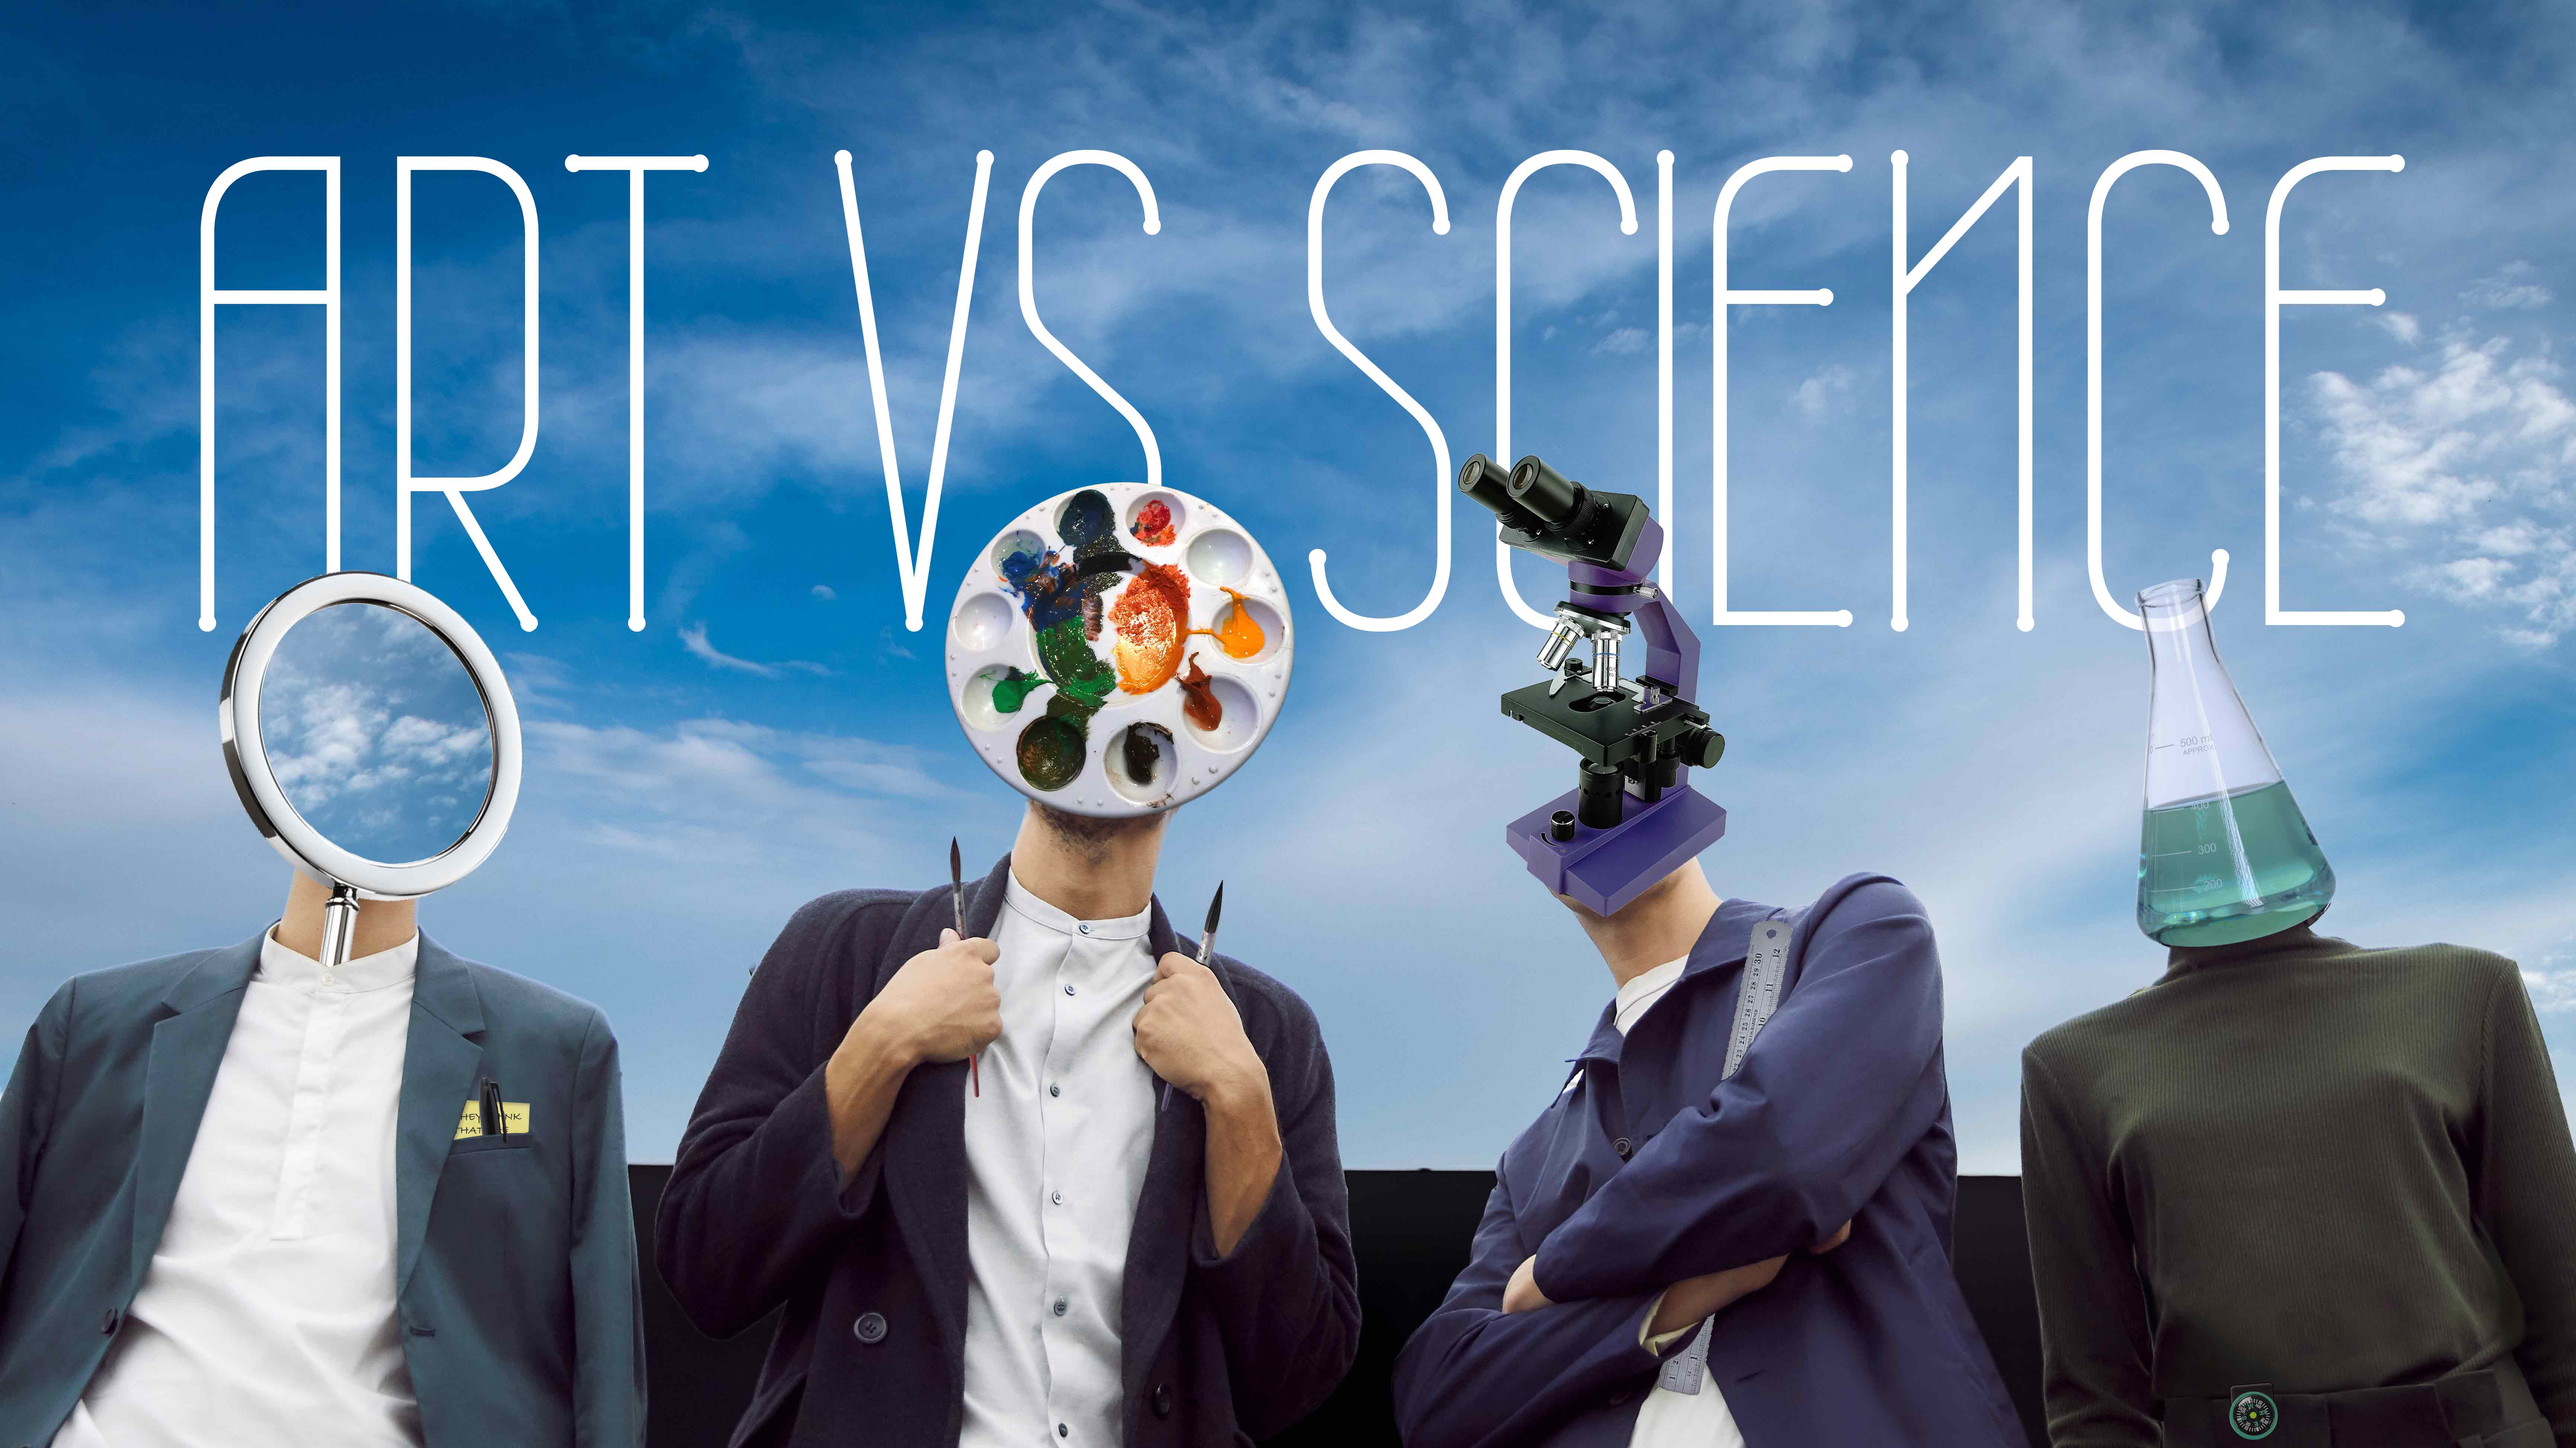
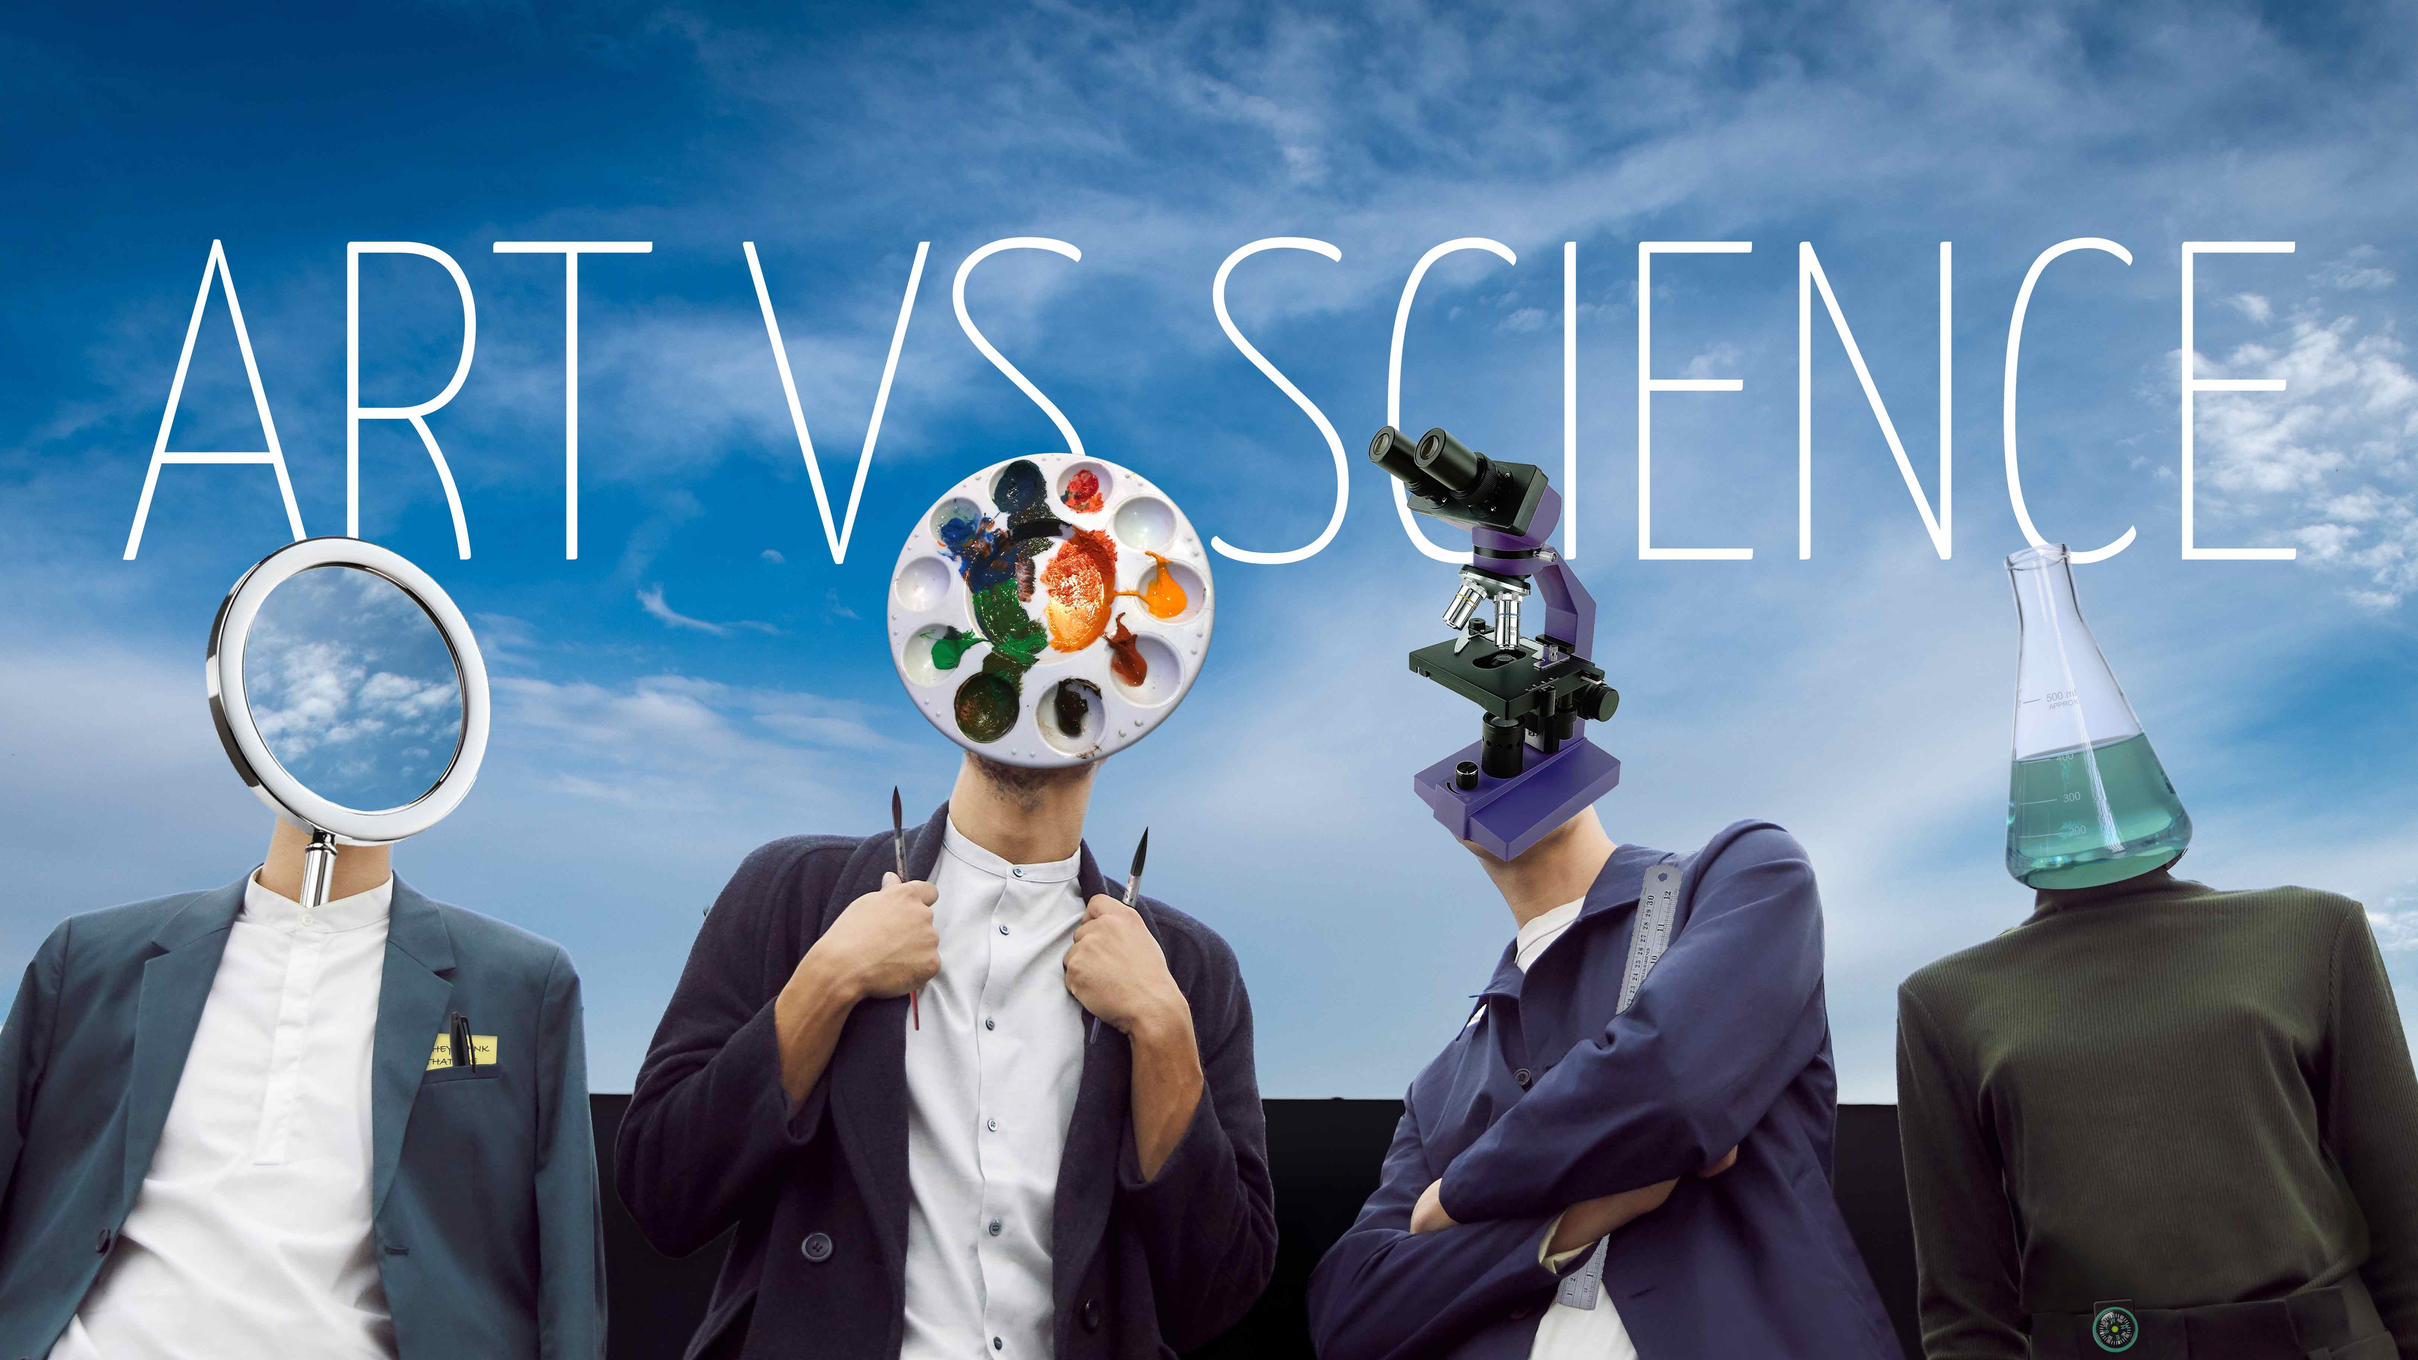
styling and UI updates

diff --git a/slides/art-vs-science/css/theme/black.css b/slides/art-vs-science/css/theme/black.css
@@ -3,7 +3,7 @@
  *
  * By Hakim El Hattab, http://hakim.se
  */
-@import url(../../lib/font/source-sans-pro/source-sans-pro.css);
+ @import url('https://fonts.googleapis.com/css?family=Crimson+Text:400,400i|Yanone+Kaffeesatz:200');
 section.has-light-background, section.has-light-background h1, section.has-light-background h2, section.has-light-background h3, section.has-light-background h4, section.has-light-background h5, section.has-light-background h6 {
   color: #222; }
 
@@ -15,7 +15,7 @@ body {
   background-color: #222; }
 
 .reveal {
-  font-family: "Source Sans Pro", Helvetica, sans-serif;
+  font-family: 'Crimson Text', serif;
   font-size: 42px;
   font-weight: normal;
   color: #fff; }
@@ -46,8 +46,8 @@ body {
 .reveal h6 {
   margin: 0 0 20px 0;
   color: #fff;
-  font-family: "Source Sans Pro", Helvetica, sans-serif;
-  font-weight: 600;
+  font-family: 'Yanone Kaffeesatz', sans-serif;
+  font-weight: 200;
   line-height: 1.2;
   letter-spacing: normal;
   text-transform: uppercase;
@@ -55,16 +55,16 @@ body {
   word-wrap: break-word; }
 
 .reveal h1 {
-  font-size: 2.5em; }
+  font-size: 3.5em; }
 
 .reveal h2 {
-  font-size: 1.6em; }
+  font-size: 3em; }
 
 .reveal h3 {
-  font-size: 1.3em; }
+  font-size: 2.5em; }
 
 .reveal h4 {
-  font-size: 1em; }
+  font-size: 2em; }
 
 .reveal h1 {
   text-shadow: none; }

diff --git a/slides/art-vs-science/index.html b/slides/art-vs-science/index.html
@@ -4,7 +4,7 @@
 		<meta charset="utf-8">
 		<meta name="viewport" content="width=device-width, initial-scale=1.0, maximum-scale=1.0, user-scalable=no">
 
-		<title>Art vs. Science</title>
+		<title>Art vs Science</title>
 
 		<link rel="stylesheet" href="css/reveal.css">
 		<link rel="stylesheet" href="css/theme/black.css">
@@ -24,10 +24,9 @@
 	<body>
 		<div class="reveal">
 			<div class="slides">
-				<section data-background-image="img/tile-dark.png" data-background-size="400px" data-background-repeat="repeat">
-					<h1>Art vs Science</h1>
+				<section data-background-image="img/art-vs-science2.jpg">
 				</section>
-				<section data-background-image="img/tile-dark.png" data-background-size="400px" data-background-repeat="repeat">
+				<section>
 					<h2>UX Research</h2>
 					<p><em>in the age of the reproducibility crisis</em></p>
 				</section>
